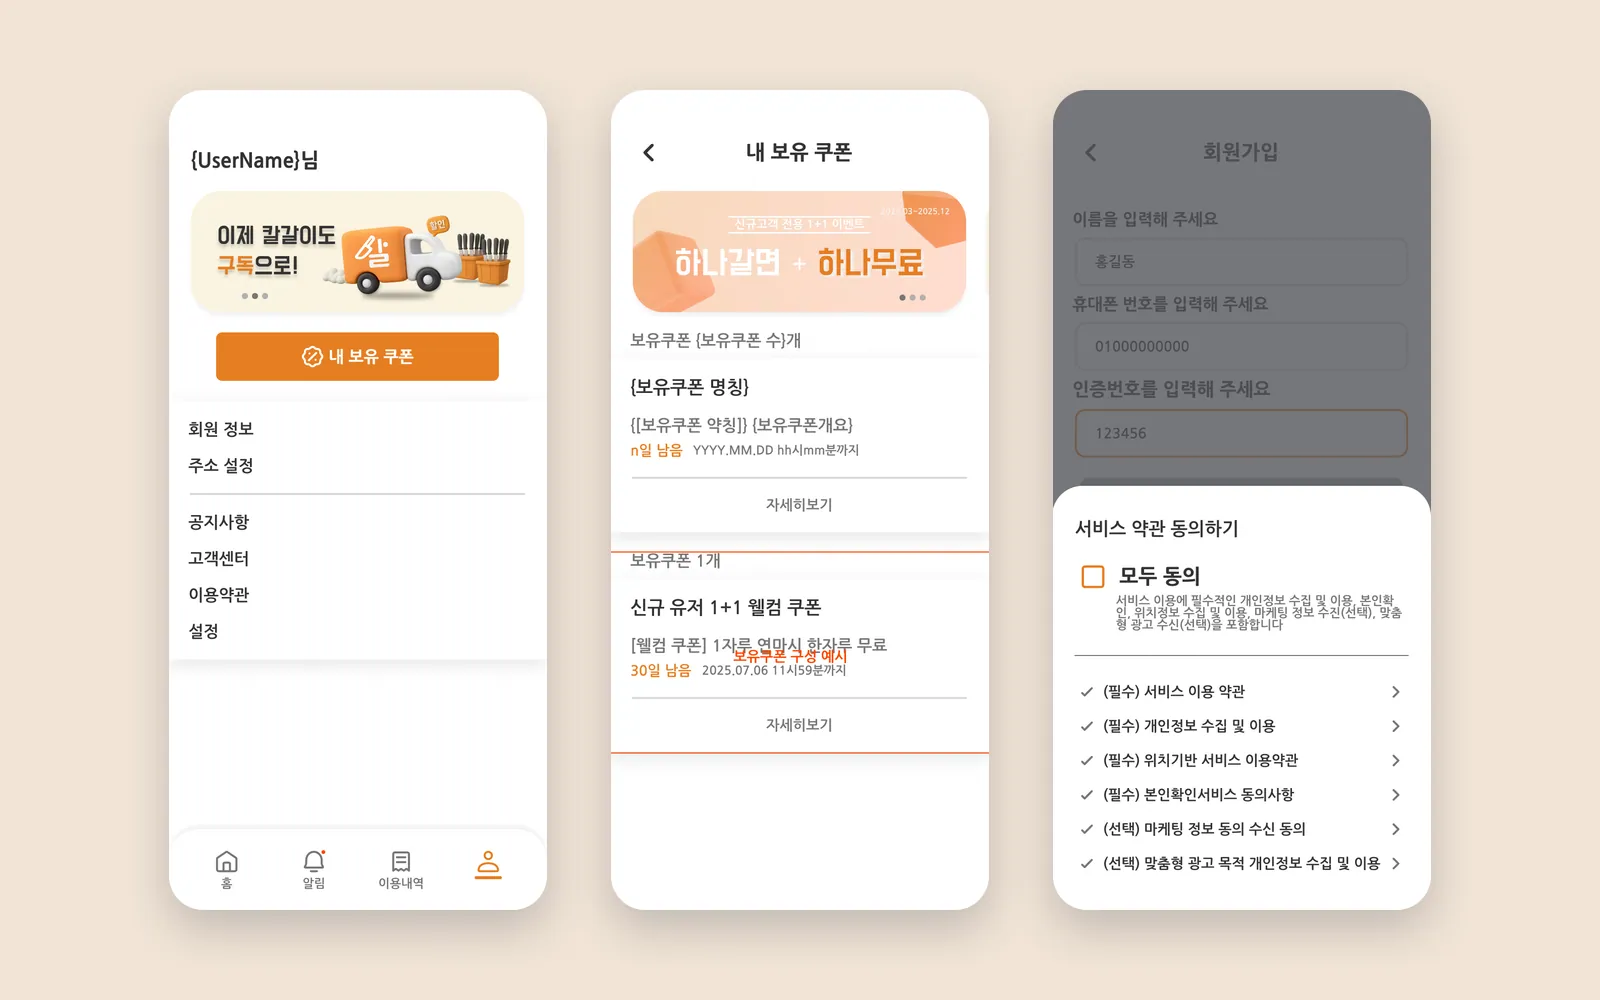
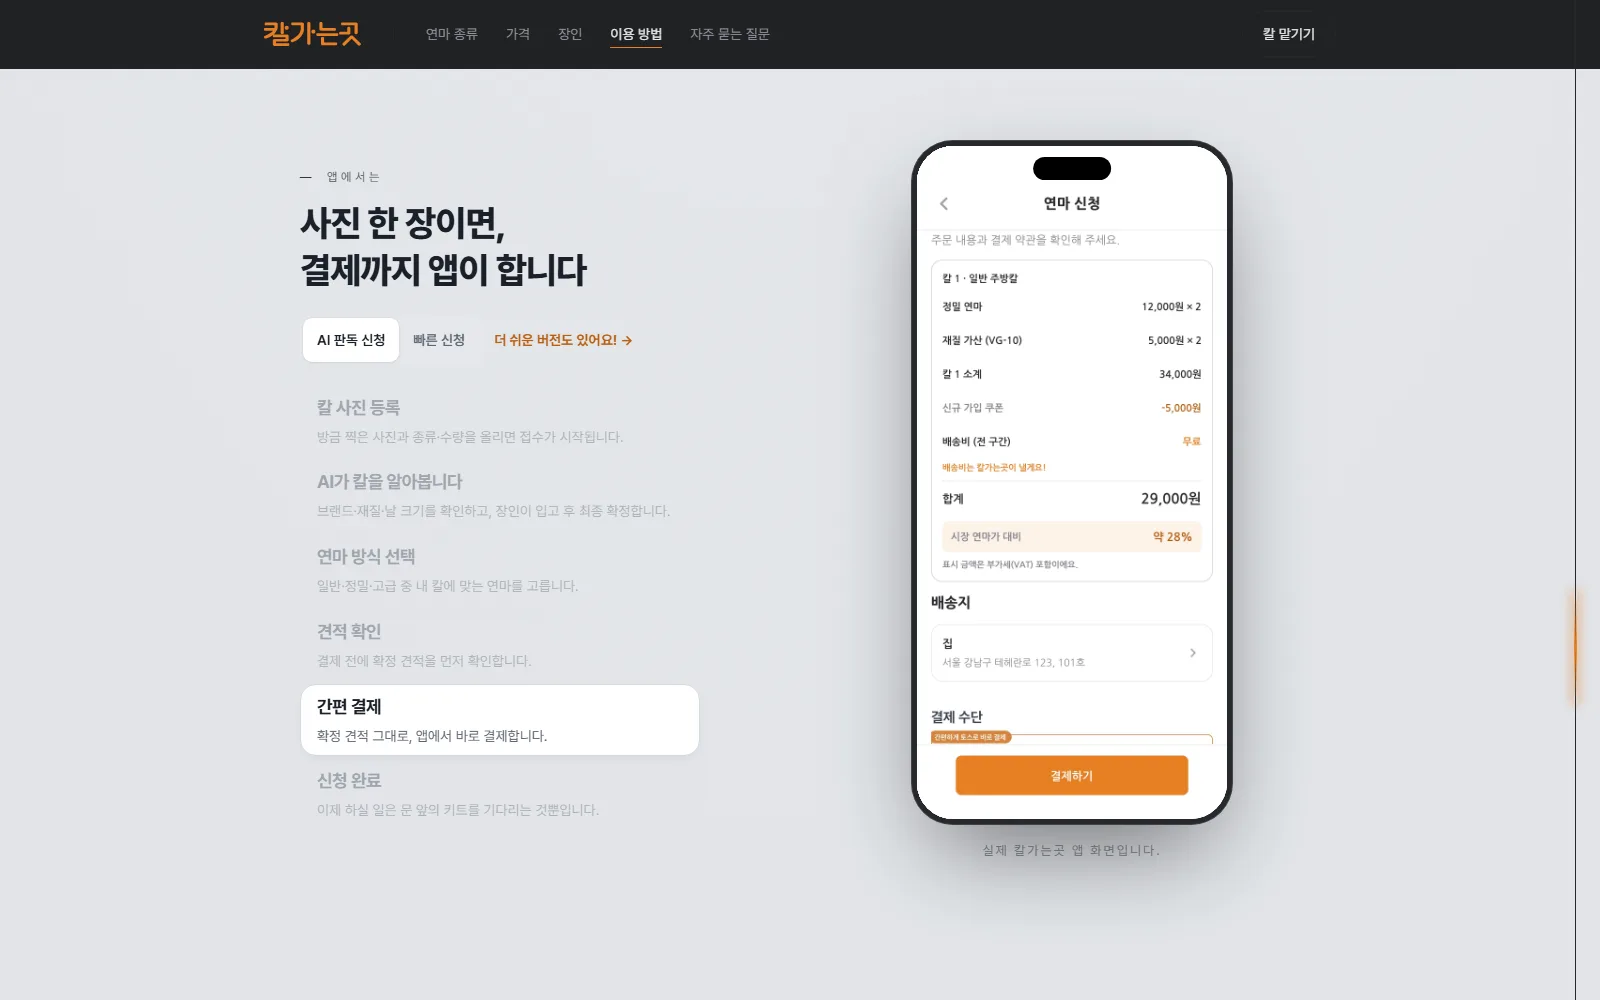
feat(work): link 칼가는곳.com and use live screenshots for knife-sharpening

diff --git a/lib/portfolio.ts b/lib/portfolio.ts
@@ -853,10 +853,15 @@ const projectList: readonly PortfolioProject[] = [
     description:
       "칼갈이 신청부터 수거·배송, 구독, 쿠폰까지 담은 모바일 웹 서비스.",
     disciplines: ["Mobile web", "Supabase", "Subscription"],
-    status: "case",
+    status: "live",
+    url: "https://칼가는곳.com",
     coverKind: "screenshot",
-    cover: { src: "/work/knife-sharpening/cover.webp", alt: "Figma 시안 화면 3장 - 내 정보 메인과 칼갈이 신청 배너, 보유 쿠폰 목록, 약관 동의 시트" },
-    gallery: [],
+    cover: { src: "/work/knife-sharpening/cover.webp", alt: "칼가는곳 사이트의 앱 화면 소개 - 사진 등록부터 AI 판독, 견적 확인, 간편 결제까지 이어지는 연마 신청 단계와 결제 화면" },
+    gallery: [
+      { src: "/work/knife-sharpening/01.webp", alt: "칼가는곳 사이트 첫 화면 - 어두운 배경 위 사시미 칼과 상단 메뉴" },
+      { src: "/work/knife-sharpening/02.webp", alt: "칼가는곳 사이트의 연마 종류 소개 구간 - 어떤 연마가 필요하신가요" },
+      { src: "/work/knife-sharpening/03.webp", alt: "초기 Figma 시안 화면 3장 - 내 정보 메인과 칼갈이 신청 배너, 보유 쿠폰 목록, 약관 동의 시트" },
+    ],
     detail: {
       oneLiner: "칼갈이를 앱으로 신청하고 문 앞에서 받는다",
       role: [

diff --git a/.fry/MEMORY.md b/.fry/MEMORY.md
@@ -58,7 +58,7 @@
 - gender-reveal 라이브는 로그인 벽 → 레포 복사본을 env 없이 로컬 실행(localStorage 데모 모드)해 캡처.
 - ai-dj(D:\dev\ai-dj-navigation, Tkinter): 레포 밖 하네스(C:\Temp\djcap\cap.py)로 App 을 library.sqlite3 **복사본** 데이터 폴더로 띄워 창 클라이언트 영역 1600x1000 을 PIL ImageGrab. .venv 는 _ctypes 없음 → .venv-package 사용, 하네스는 `if __name__=='__main__'` 필수(오디오 엔진 multiprocessing spawn 이 스크립트를 재실행). 재생 버튼은 누르지 않고 GUIDE 모드 transport 위치만 옮겨 전환 구간을 찍음(소리 없음). 덱 로드 후 PERFORM 패널을 열면 행이 걸려서 04 는 빈 덱 상태 캡처. 카피: 개발 중·규칙 기반(학습 모델 아님) 명시.
 - knife-sharpening(web-kal) 이미지는 레포 public/figma 의 Figma 시안 → alt 에 'Figma 시안' 명시.
-- knife-sharpening 도메인은 오너 기준 https://칼가는곳.com (punycode www.xn--o39a1r88koy7a.com). 단 2026-11-09 확인 시 라이브는 우리 web-kal 빌드가 아닌 마케팅 랜딩(CloudFront, /client·/admin 404, 앱 com.edgecraft.kalganunplace 는 레포에 없는 견적·정밀 연마 기능) → url/live·라이브 캡처 보류, 오너 확인 대기(docs/portfolio-inventory.md '칼가는곳.com 검증'). 오너가 우리 작업이라 확인하면 url 은 표시용 'https://칼가는곳.com' 으로.
+- knife-sharpening: 2026-11-09 오너 지시로 url https://칼가는곳.com + live. 라이브는 웹앱을 앱으로 감싼 버전(CloudFront 랜딩)이라 레포 경로와 달라도 오너 확인으로 연결함. 커버=라이브 랜딩 캡처, 03=예전 Figma 시안.
 
 ## 브랜드 썸네일 (실화면이 없거나 노출 불가한 프로젝트, 2026-10-30)
 - 오너 피드백: 프로젝트마다 따로 디자인한 임시 커버(파란 배경 '룰라.' + 가짜 폰 목업 등)가 사이트와 따로 놀았다 → 한 템플릿으로 통일. 예전 docs/work-covers/*.html·panel.js·spec-*.json 은 삭제했다(재도입 금지).
